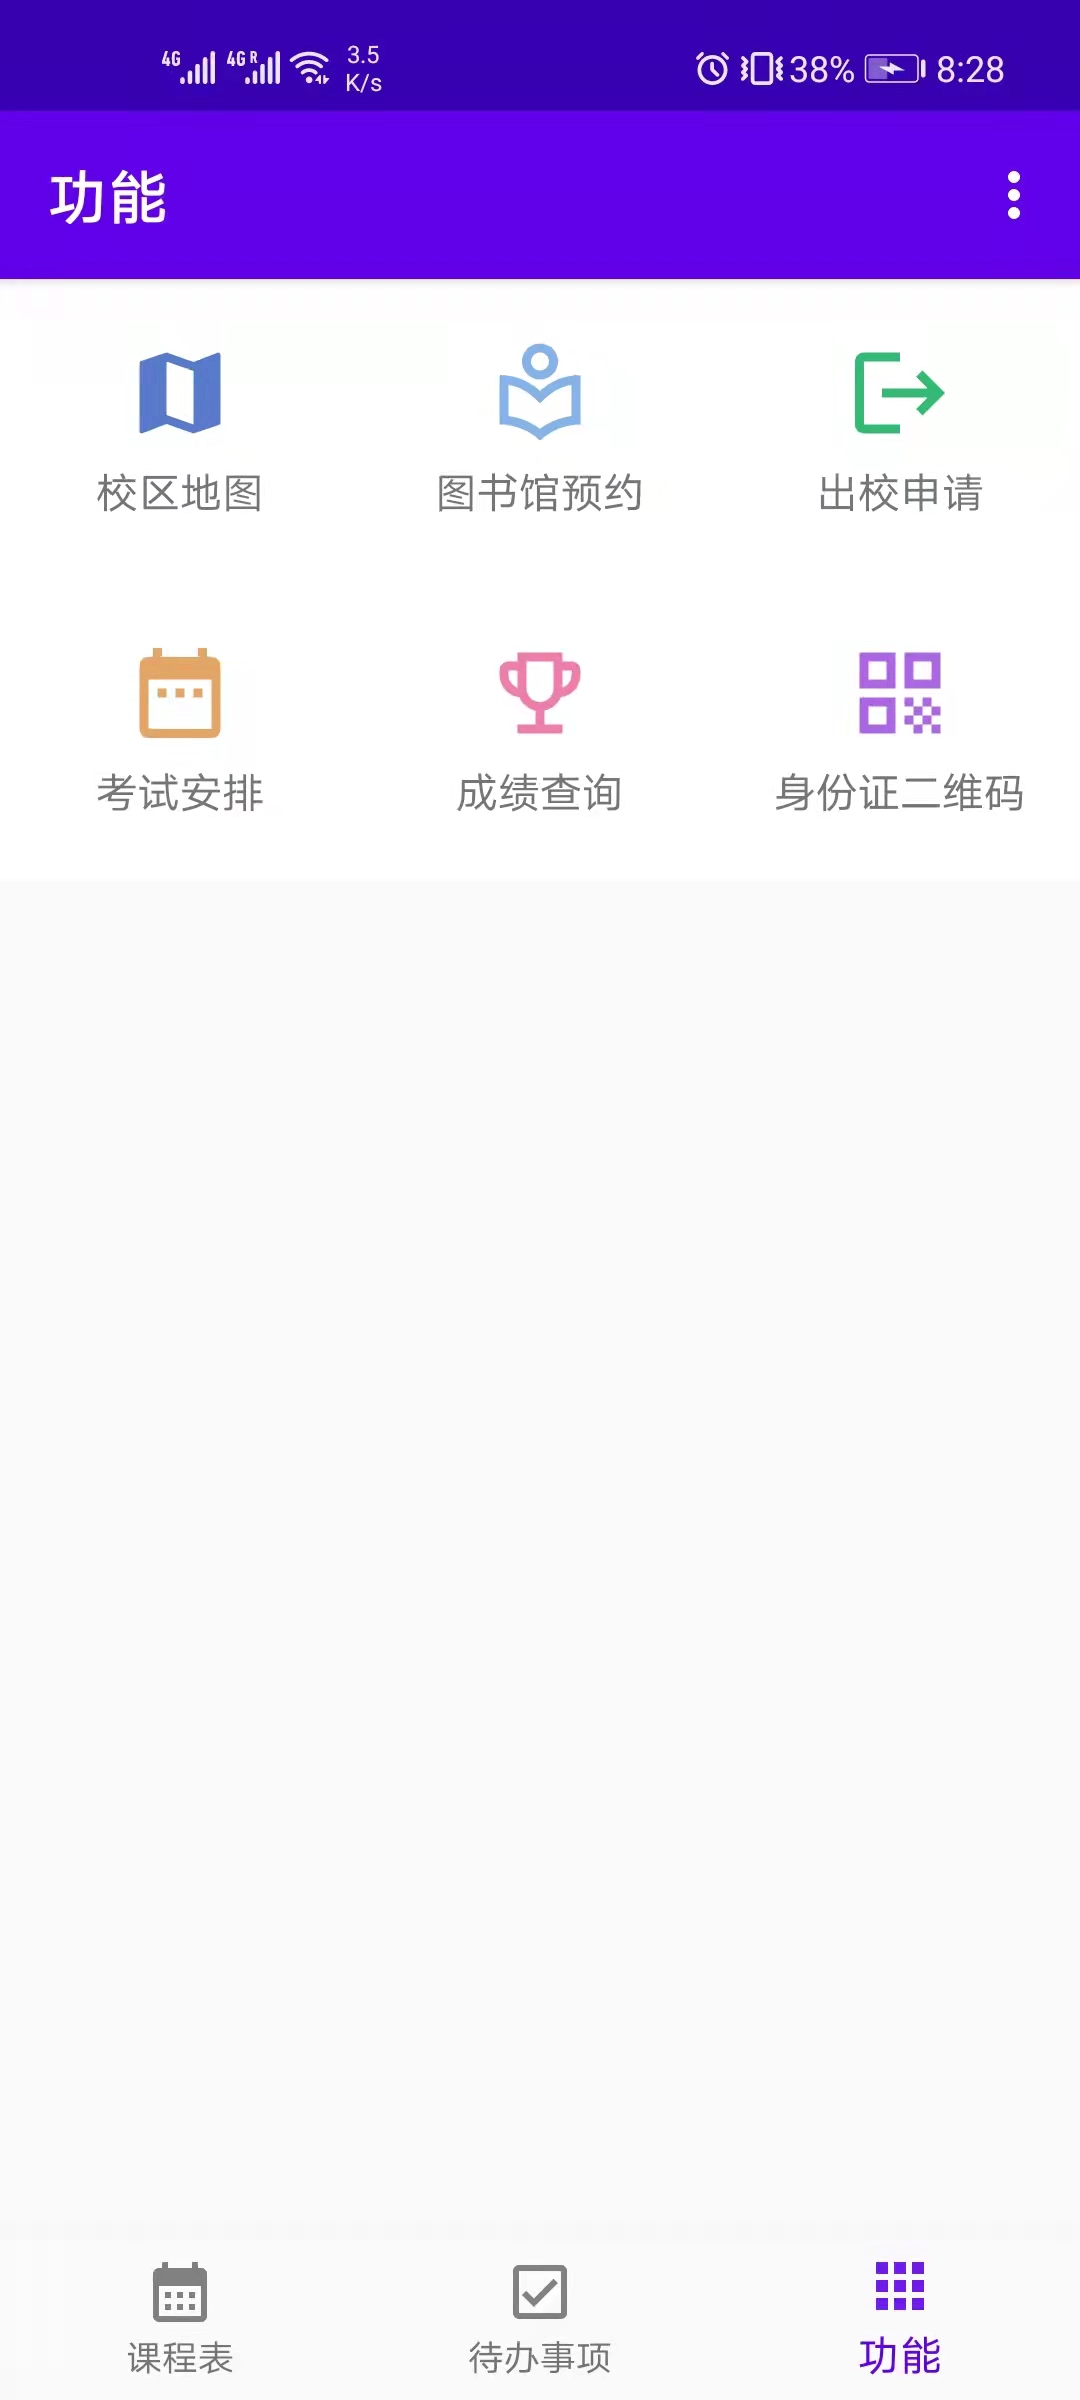
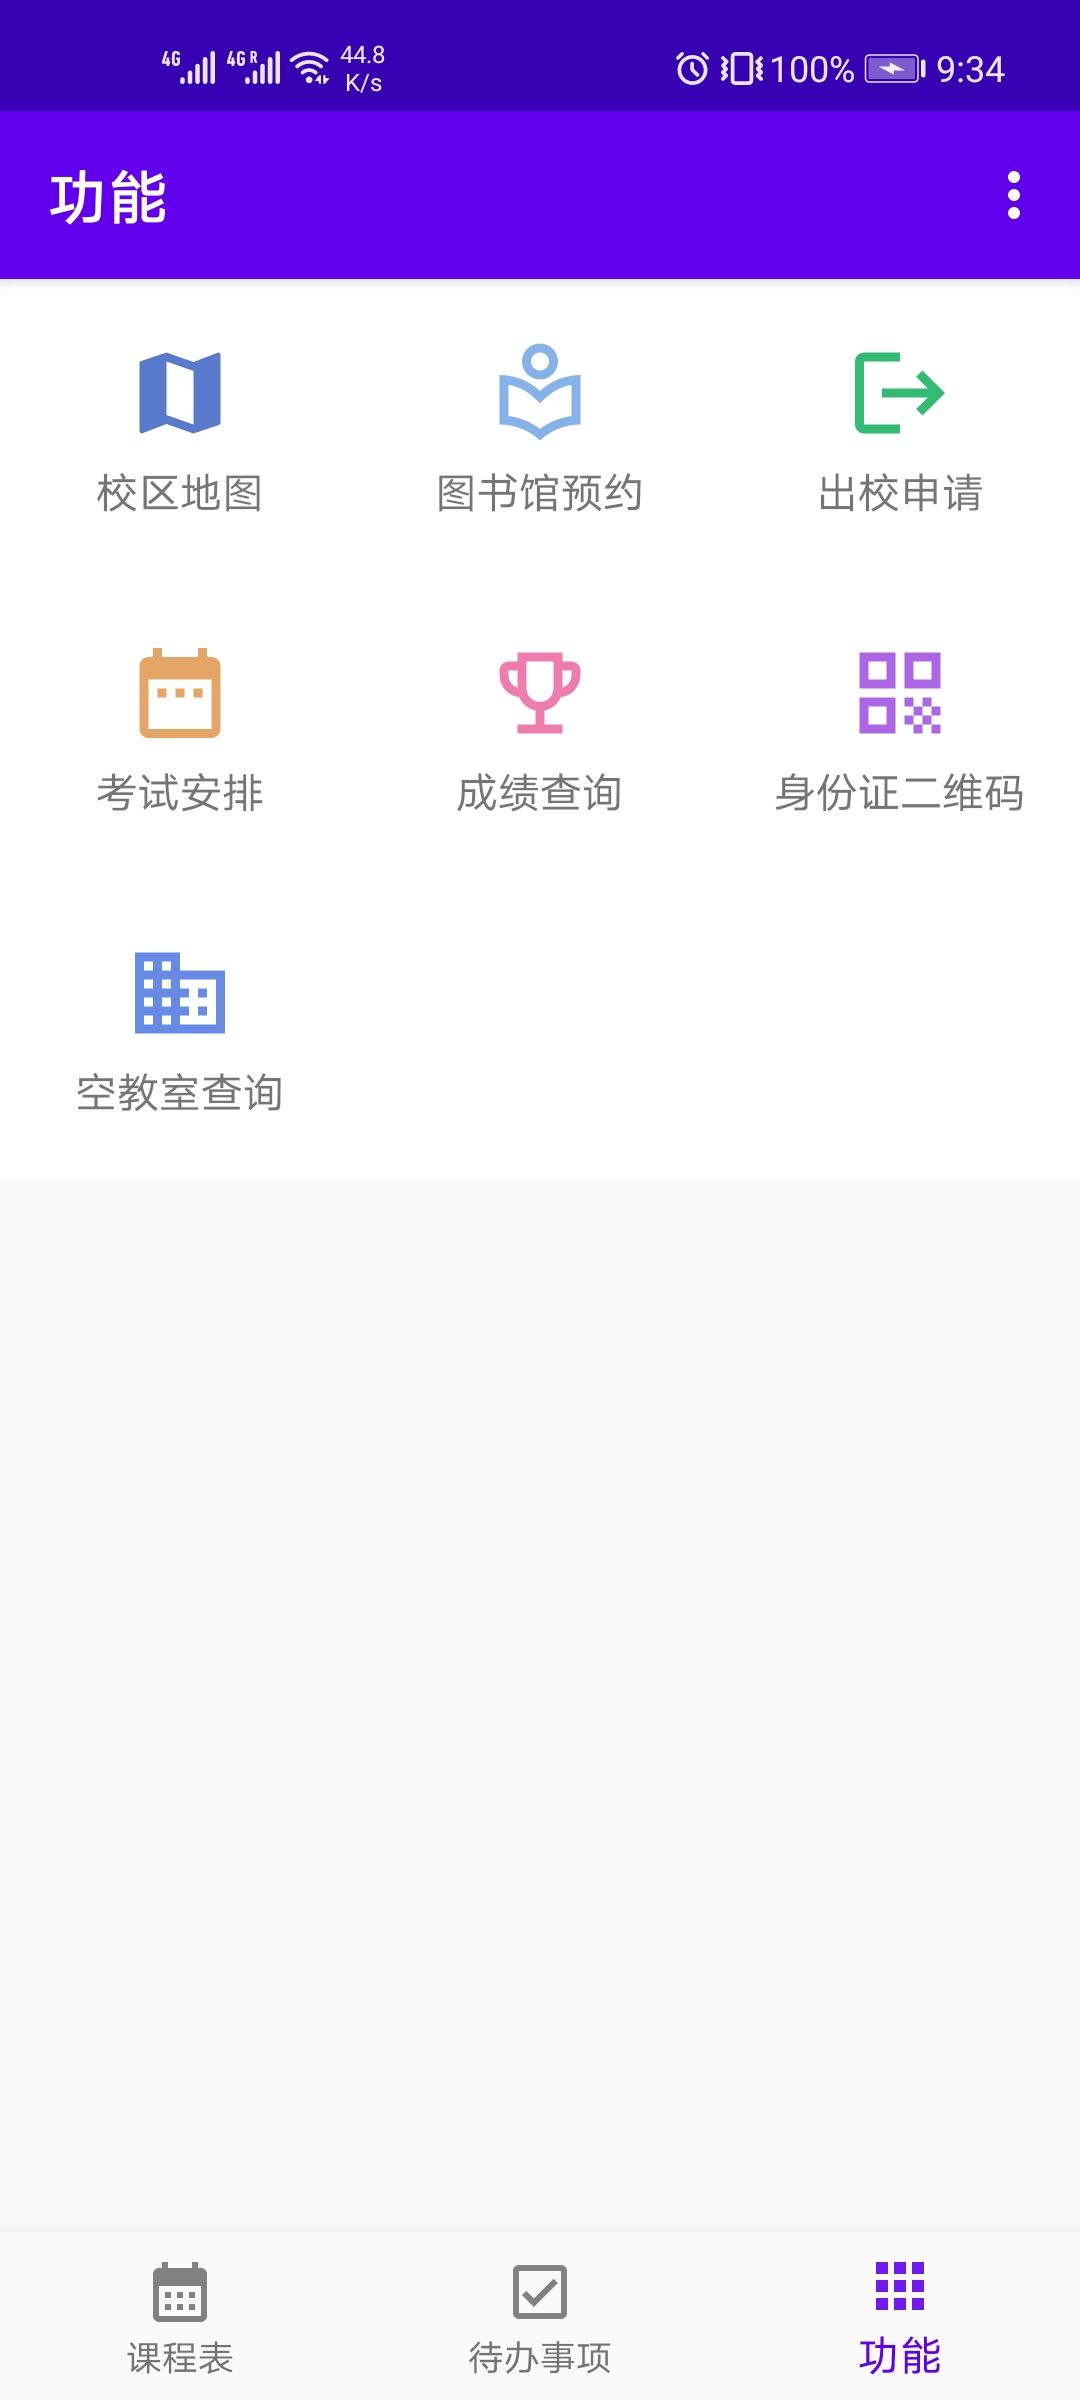
modify mysdu share.html

diff --git a/mysdu/share.html b/mysdu/share.html
@@ -66,7 +66,7 @@
                 <van-cell title="身份证二维码" label="核酸检测时方便展示，不再需要打开小程序"></van-cell>
                 <van-cell title="出入校园信息填报" label="一键打开出校申请"></van-cell>
                 <van-cell title="图书馆预约" label="一键打开座位预约"></van-cell>
-                <van-cell title="空教室查询" label="<应同学反馈增加该功能，待开发>"></van-cell>
+                <van-cell title="空教室查询" label="方便查询空教室，自习必备"></van-cell>
                 <van-cell title="考试安排" label="<因教务目前暂无考试安排，暂未开发>"></van-cell>
             </van-cell-group>
 
@@ -127,7 +127,8 @@
           "./imgs/img_map.jpg",
           "./imgs/img_apply_go_out.jpg",
           "./imgs/img_qr_code.jpg",
-          "./imgs/img_grade.png",
+          "./imgs/img_grade.jpg",
+          "./imgs/img_empty_room.jpg",
         ],
         apk_url: "https://mysdu-qd-public.oss-cn-qingdao.aliyuncs.com/apk/MySdu-latest.apk",
       }
